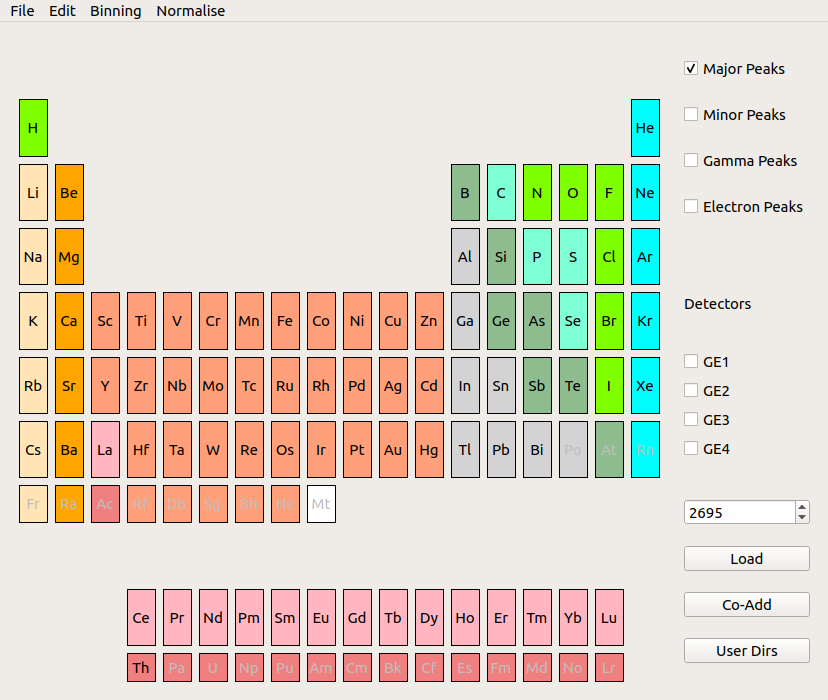
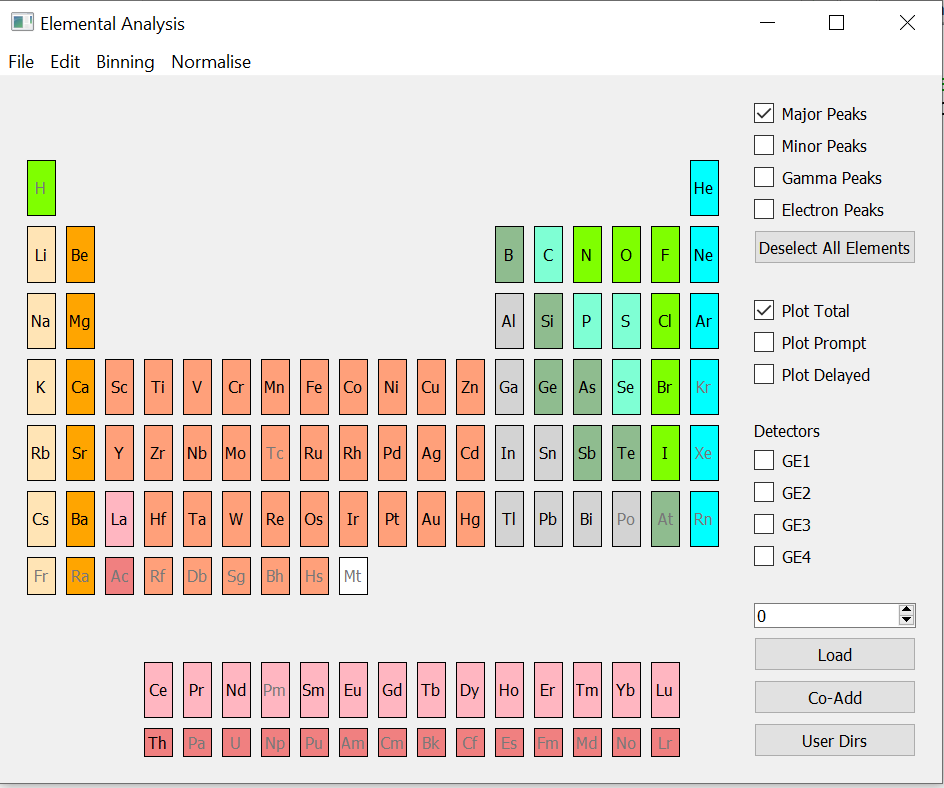
Added a deselect all elements button to elemental analysis gui

diff --git a/scripts/test/Muon/elemental_analysis/elemental_analysis_test.py b/scripts/test/Muon/elemental_analysis/elemental_analysis_test.py
@@ -696,6 +696,42 @@ class ElementalAnalysisTest(unittest.TestCase):
         self.gui.lines.delayed.setChecked.assert_called_with(True)
         self.assertEqual(1, mock_add_line_by_type.call_count)
 
+    @mock.patch('Muon.GUI.ElementalAnalysis.elemental_analysis.ElementalAnalysisGui._remove_element_lines')
+    def test_deselect_elements(self,mock_remove_element_lines):
+
+        self.gui.ptable.deselect_element = mock.Mock()
+
+        self.gui.peaks.enable_deselect_elements_btn = mock.Mock()
+        self.gui.peaks.disable_deselect_elements_btn = mock.Mock()
+
+        self.gui.deselect_elements()
+
+        self.assertEquals(self.gui.peaks.enable_deselect_elements_btn.call_count , 1)
+        self.assertEquals(self.gui.peaks.disable_deselect_elements_btn.call_count , 1)
+
+        self.assertEquals(self.gui.ptable.deselect_element.call_count , len(self.gui.element_widgets))
+        self.assertEquals(mock_remove_element_lines.call_count , len(self.gui.element_widgets))
+
+        calls = [mock.call(element) for element in self.gui.element_widgets.keys()]
+        self.gui.ptable.deselect_element.assert_has_calls(calls)
+        mock_remove_element_lines.assert_has_calls(calls)
+
+    @mock.patch('Muon.GUI.ElementalAnalysis.elemental_analysis.ElementalAnalysisGui._remove_element_lines')
+    def test_deselect_elements_fails(self,mock_remove_element_lines):
+
+        self.gui.ptable.deselect_element = mock.Mock()
+
+        self.gui.peaks.enable_deselect_elements_btn = mock.Mock()
+        self.gui.peaks.disable_deselect_elements_btn = mock.Mock()
+
+        self.gui.deselect_elements()
+
+        with self.assertRaises(AssertionError):
+            self.gui.ptable.deselect_element.assert_any_call("Hydrogen")
+
+        with self.assertRaises(AssertionError):
+            mock_remove_element_lines.assert_any_call("Hydrogen")
+
 
 if __name__ == '__main__':
     unittest.main()

diff --git a/scripts/Muon/GUI/ElementalAnalysis/elemental_analysis.py b/scripts/Muon/GUI/ElementalAnalysis/elemental_analysis.py
@@ -103,6 +103,7 @@ class ElementalAnalysisGui(QtWidgets.QMainWindow):
         self.peaks.gamma.on_checkbox_unchecked(self.gammas_changed)
         self.peaks.electron.on_checkbox_checked(self.electrons_changed)
         self.peaks.electron.on_checkbox_unchecked(self.electrons_changed)
+        self.peaks.set_deselect_elements_slot(self.deselect_elements)
 
         # Line type boxes
         self.lines = LineSelectorPresenter(LineSelectorView())
@@ -427,6 +428,13 @@ class ElementalAnalysisGui(QtWidgets.QMainWindow):
     def minor_peaks_changed(self, minor_peaks):
         for element, selector in self.element_widgets.items():
             self.checked_data(element, selector.secondary_checkboxes, minor_peaks.isChecked())
+
+    def deselect_elements(self):
+        self.peaks.disable_deselect_elements_btn()
+        for element in self.element_widgets.keys():
+            self.ptable.deselect_element(element)
+            self._remove_element_lines(element)
+        self.peaks.enable_deselect_elements_btn()
 
     def add_line_by_type(self, run, _type):
         # Ensure all detectors are enabled

diff --git a/scripts/Muon/GUI/ElementalAnalysis/Peaks/peaks_view.py b/scripts/Muon/GUI/ElementalAnalysis/Peaks/peaks_view.py
@@ -19,8 +19,20 @@ class PeaksView(QtWidgets.QWidget):
         self.minor = Checkbox("Minor Peaks")
         self.gamma = Checkbox("Gamma Peaks")
         self.electron = Checkbox("Electron Peaks")
-
+        self.deselect_elements = QtWidgets.QPushButton("Deselect All Elements",self)
         self.peak_checkboxes = [self.major, self.minor, self.gamma, self.electron]
         for peak_type in self.peak_checkboxes:
             self.list.addWidget(peak_type)
+        self.list.addWidget(self.deselect_elements)
         self.setLayout(self.list)
+
+    def set_deselect_elements_slot(self,slot):
+        self.deselect_elements.clicked.connect(slot)
+
+    def enable_deselect_elements_btn(self):
+        self.deselect_elements.setEnabled(True)
+
+    def disable_deselect_elements_btn(self):
+        self.deselect_elements.setEnabled(False)
+
+

diff --git a/scripts/Muon/GUI/ElementalAnalysis/Peaks/peaks_presenter.py b/scripts/Muon/GUI/ElementalAnalysis/Peaks/peaks_presenter.py
@@ -14,3 +14,14 @@ class PeaksPresenter(object):
         self.gamma = self.view.gamma
         self.electron = self.view.electron
         self.peak_checkboxes = self.view.peak_checkboxes
+
+    def set_deselect_elements_slot(self,slot):
+        self.view.set_deselect_elements_slot(slot)
+
+    def enable_deselect_elements_btn(self):
+        self.view.enable_deselect_elements_btn()
+
+    def disable_deselect_elements_btn(self):
+        self.view.disable_deselect_elements_btn()
+
+

diff --git a/docs/source/interfaces/Muon Elemental Analysis.rst b/docs/source/interfaces/Muon Elemental Analysis.rst
@@ -42,6 +42,8 @@ Lines corresponding to different elements will appear in different colours.
 To remove lines from a specific element, click on its label on the periodic table which will return to the original
 colour.
 
+To remove all the lines from the plots click on `Deselect All Elements`.
+
 Changing peak data file
 #######################
 If you wish to load a custom data file for the peaks you can do so from *Edit → Change Peak Data File*. This will open

diff --git a/docs/source/release/v5.1.0/muon.rst b/docs/source/release/v5.1.0/muon.rst
@@ -54,4 +54,11 @@ Bug fixes
 - Fixed an issue where switching to simultaneous fit mode was occasionally throwing an exception.
 - Fixed an issue where loading additional data in simultaneous fit mode was throwing an exception.
 
+Elemental Analysis 
+##################
+
+New Features
+------------
+- Added a deselect all elements button.
+
 :ref:`Release 5.1.0 <v5.1.0>`
